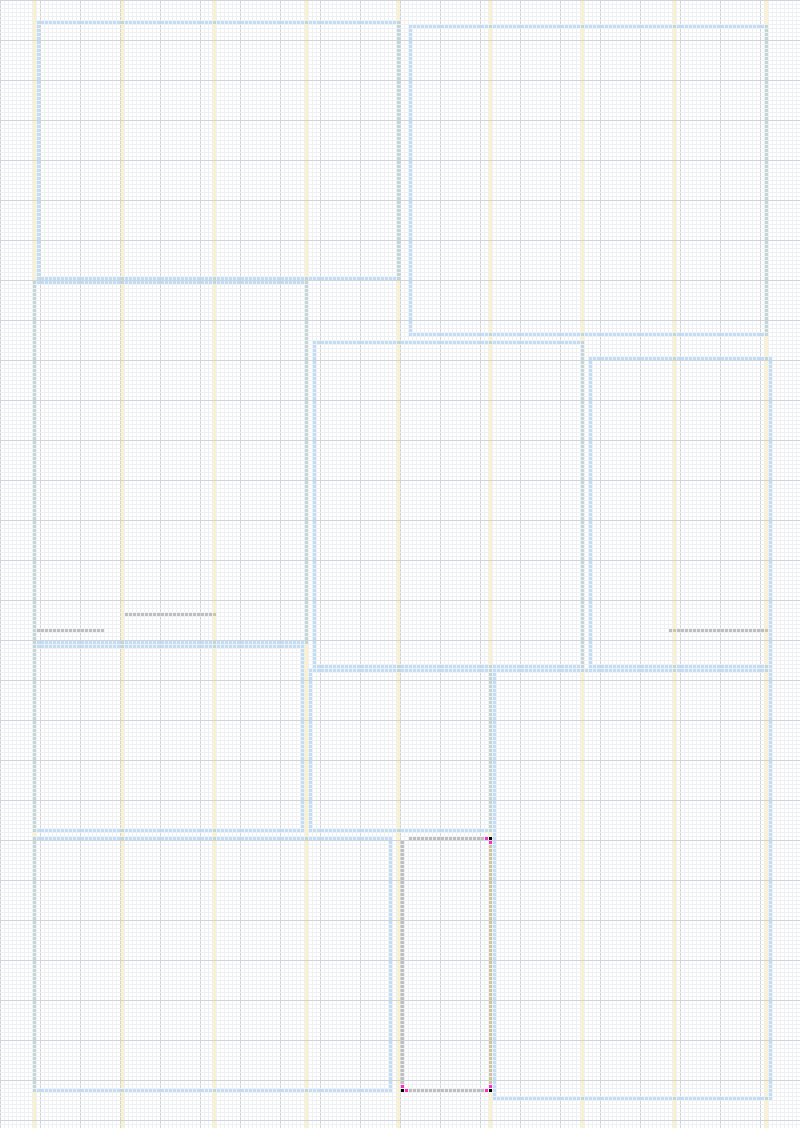
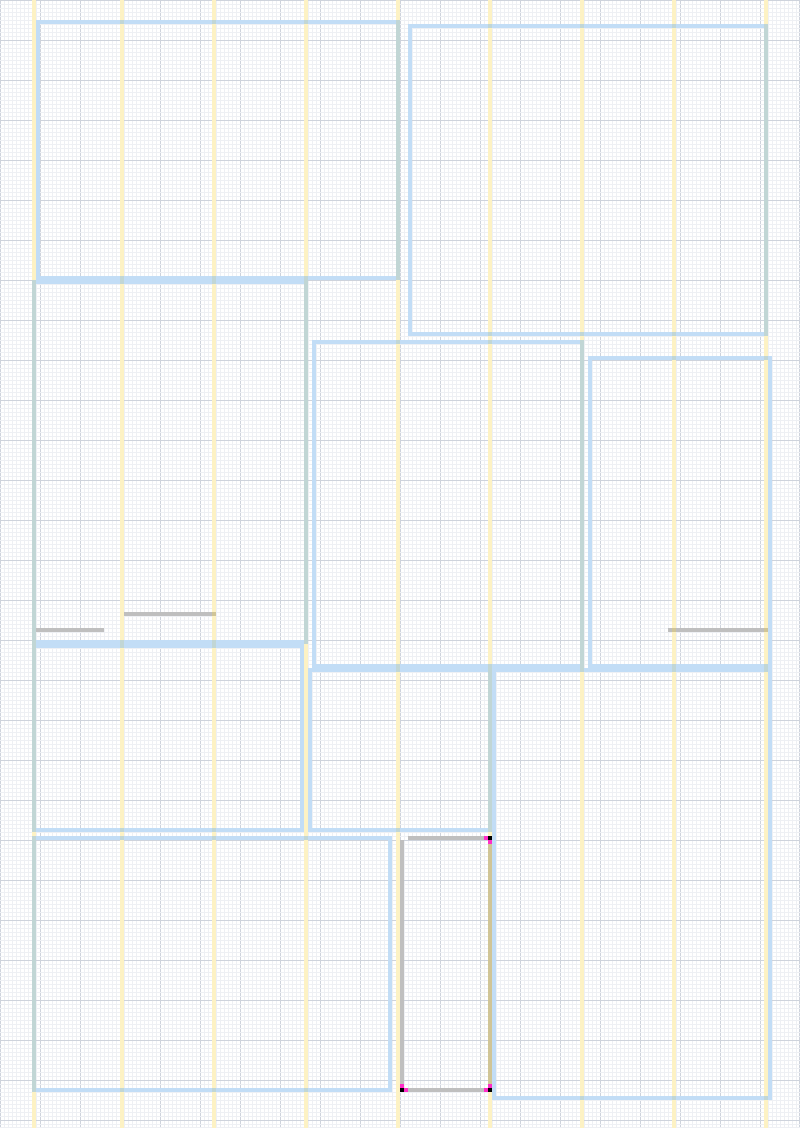
scaled/grid: align every drawn pixel to integer cell boundaries
Two faults, both measurable and both now verified by inspecting pixel runs
rather than by eye.

OFF-BY-ONE. PIL's rectangle is INCLUSIVE of the far coordinate, so
[x0, y0, x0+CELL_PX, y0+CELL_PX] painted CELL_PX+1 pixels and every cell
overlapped its neighbour by one. Now -1 on both, so a cell is exactly
CELL_PX px on integer boundaries.

GRID LINES ON TOP. They were drawn after the fills and ate a pixel off
each cell -- measured, a 4px cell rendered as a 3px run. They are now the
background layer, so a filled cell covers its full width and the ruling
shows only where there is no data, which is all it is for.

Verified: on p13 at 800x1124 with 4px cells, every run of rule grey,
black crossing and magenta is an exact multiple of 4.

Claude-Session: https://claude.ai/code/session_01FiL5RaDmQAWNR3gnQRCAgK

diff --git a/transcribe/scaled/experiments/separator_grid.py b/transcribe/scaled/experiments/separator_grid.py
@@ -508,6 +508,19 @@ def render(counts, junction, near, crossing, gutter, photo, n_cols, n_rows,
     img = Image.new("RGB", (W, H), (255, 255, 255))
     d = ImageDraw.Draw(img)
 
+    # Grid lines FIRST, as a background. Drawn after the fills they ate a
+    # pixel off every cell -- measured: a 4px cell showed as a 3px run.
+    # Underneath, a filled cell covers its full CELL_PX and the grid shows
+    # only where there is no data, which is all it is for.
+    for x in range(n_cols + 1):
+        gx = min(W - 1, x * CELL_PX)
+        d.line([(gx, 0), (gx, H - 1)],
+               fill=GRID_MAJOR if x % MAJOR_EVERY == 0 else GRID_LINE)
+    for y in range(n_rows + 1):
+        gy = min(H - 1, y * CELL_PX)
+        d.line([(0, gy), (W - 1, gy)],
+               fill=GRID_MAJOR if y % MAJOR_EVERY == 0 else GRID_LINE)
+
     for y in range(n_rows):
         for x in range(n_cols):
             n = counts[y][x]
@@ -535,20 +548,12 @@ def render(counts, junction, near, crossing, gutter, photo, n_cols, n_rows,
             if junction[y][x]:
                 fill = JUNCTION
             if fill:
-                d.rectangle([x0, y0, x0 + CELL_PX, y0 + CELL_PX], fill=fill)
-
-    # Grid lines LAST, so they sit over the fills without being repainted
-    # per cell, and only one line per edge rather than one per cell.
-    for x in range(n_cols + 1):
-        major = x % MAJOR_EVERY == 0
-        gx = pad_l + x * CELL_PX
-        d.line([(gx, pad_t), (gx, pad_t + n_rows * CELL_PX)],
-               fill=GRID_MAJOR if major else GRID_LINE)
-    for y in range(n_rows + 1):
-        major = y % MAJOR_EVERY == 0
-        gy = pad_t + y * CELL_PX
-        d.line([(pad_l, gy), (pad_l + n_cols * CELL_PX, gy)],
-               fill=GRID_MAJOR if major else GRID_LINE)
+                # -1 because PIL's rectangle is INCLUSIVE of the far edge:
+                # x0+CELL_PX would paint CELL_PX+1 pixels and overlap the
+                # next cell by one. Every cell is now exactly CELL_PX px,
+                # on integer boundaries, with no overlap.
+                d.rectangle([x0, y0, x0 + CELL_PX - 1, y0 + CELL_PX - 1],
+                            fill=fill)
 
     # Derived boxes LAST, drawn 1px down the CENTRE LINE of the corner
     # cells -- the corner is inside that cell, not at its edge, so a
